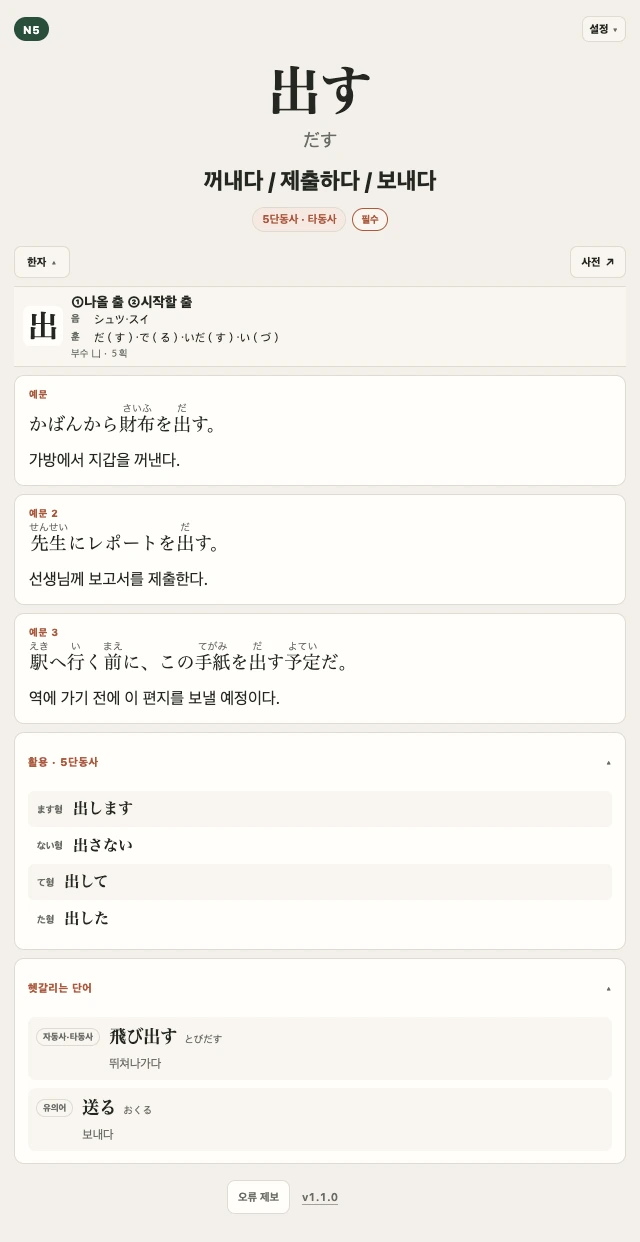
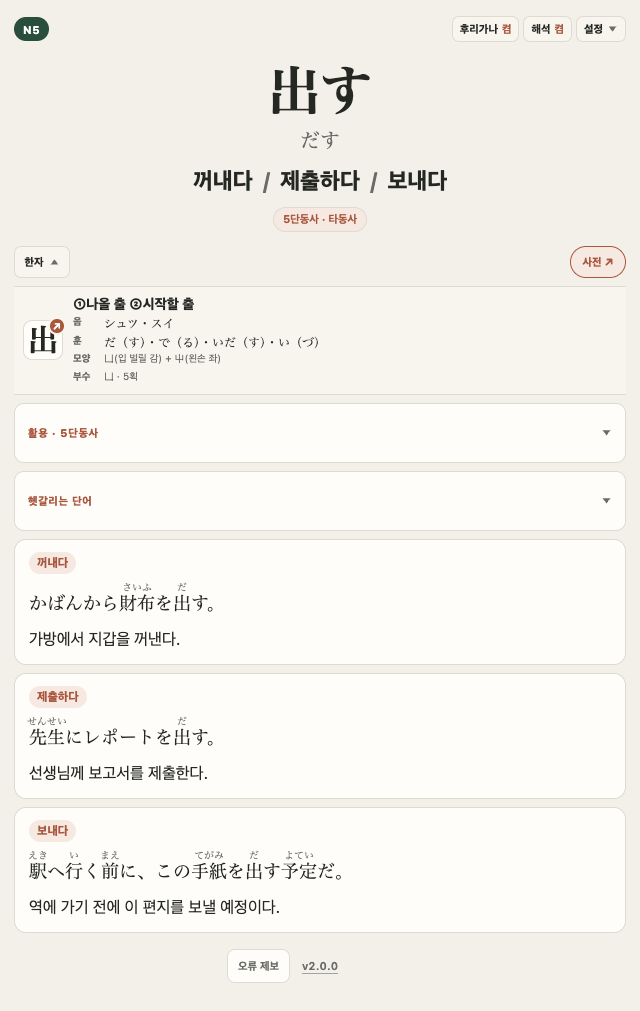
docs: sharpen pinned deck introduction

diff --git a/docs/jlpt-gallery-post.html b/docs/jlpt-gallery-post.html
@@ -6,7 +6,7 @@
   <div style="padding:44px 28px 40px;text-align:center;color:#fff;background:#101512;border-top:9px solid #d8ff62;border-bottom:1px solid #2f3933;">
     <div style="margin-bottom:12px;color:#d8ff62;font-size:13px;font-weight:900;letter-spacing:.12em;">N5–N1 · 한국어권 JLPT ANKI 덱</div>
     <div style="font-size:38px;font-weight:900;line-height:1.12;letter-spacing:-.055em;">JLPT MAX Deck</div>
-    <p style="max-width:590px;margin:18px auto 0;color:#d9dedb;font-size:19px;line-height:1.65;">단어의 뜻만 외우고 끝내지 않도록<br>예문·음성·활용·관련어와 실전 문제까지 연결했음.</p>
+    <p style="max-width:590px;margin:18px auto 0;color:#d9dedb;font-size:19px;line-height:1.65;"><strong style="color:#fff;">외워야 할 뜻만 추리고,</strong><br>각 뜻마다 예문과 음성을 붙인 JLPT Anki 덱임.</p>
     <div style="max-width:390px;margin:25px auto 0;padding:15px 18px;background:#d8ff62;border:1px solid #d8ff62;">
       <a href="https://truthyblue.github.io/jlpt-max-deck/getting-started.html" target="_blank" rel="noopener noreferrer" style="color:#101512;font-weight:900;line-height:1.5;text-decoration:none;">처음 설치부터 따라가기 →</a>
     </div>
@@ -27,47 +27,40 @@
 
   <div style="padding:34px 28px;color:#fff;background:#15201b;border-top:1px solid #344139;border-right:1px solid #344139;border-bottom:1px solid #344139;border-left:8px solid #8ee6b1;">
     <div style="color:#8ee6b1;font-size:12px;font-weight:900;letter-spacing:.1em;">어휘 카드</div>
-    <div style="margin-top:9px;font-size:26px;font-weight:900;line-height:1.3;letter-spacing:-.04em;">외울 뜻이 선명하도록</div>
-    <p style="margin:16px 0 0;color:#d9dedb;">비슷한 한국어 표현은 하나로 정리하고, 구분해서 외워야 하는 다의어는 뜻별로 나눴음. 각 뜻에는 그 의미를 대표하는 검토된 예문을 연결했음.</p>
+    <div style="margin-top:9px;font-size:26px;font-weight:900;line-height:1.3;letter-spacing:-.04em;">카드에 적힌 뜻만 외우면 됨</div>
+    <p style="margin:16px 0 0;color:#d9dedb;">사전 뜻을 통째로 늘어놓지 않고, 한국어 학습자가 실제로 구분해 외워야 할 뜻만 따로 정리했음. 비슷한 표현은 하나로 묶고, 다의어는 외울 뜻별로 나눴음.</p>
     <div style="margin-top:24px;">
       <div style="padding:16px 0;border-top:1px solid #3a4640;border-bottom:1px solid #3a4640;"><span style="margin-right:12px;color:#d8ff62;font-weight:900;">01</span><strong>엄마, 어머니 → 엄마</strong><div style="margin:4px 0 0 40px;color:#aeb8b2;">같은 의미의 표현은 학습용 뜻 하나로 정리</div></div>
       <div style="padding:16px 0;border-bottom:1px solid #3a4640;"><span style="margin-right:12px;color:#d8ff62;font-weight:900;">02</span><strong>꺼내다 / 제출하다 / 편지를 보내다</strong><div style="margin:4px 0 0 40px;color:#aeb8b2;">다의어는 외울 뜻별로 분리</div></div>
       <div style="padding:16px 0;border-bottom:1px solid #3a4640;"><span style="margin-right:12px;color:#d8ff62;font-weight:900;">03</span><strong>뜻 1 → 예문 1 · 뜻 2 → 예문 2</strong><div style="margin:4px 0 0 40px;color:#aeb8b2;">각 뜻에 그 쓰임이 분명한 대표 예문 연결</div></div>
     </div>
+    <p style="margin:20px 0 0;padding:15px 17px;color:#101512;background:#d8ff62;font-weight:800;">단어와 각 뜻별 예문 음성은 모두 AivisSpeech 1.2.0의 <span lang="ja">まい</span>로 합성했음. 단어와 예문을 눌러 각각 들을 수 있음.</p>
   </div>
 
   <div style="margin-top:24px;padding:8px;text-align:center;background:#f3f0e9;border:1px solid #d9ddd8;">
-    <img src="https://truthyblue.github.io/jlpt-max-deck/assets/card-dasu-answer.webp" width="640" height="1242" alt="出す의 읽기와 뜻별 예문, 활용, 관련어, 한자 정보를 보여 주는 실제 JLPT MAX 어휘 카드" style="display:block;width:100%;max-width:500px;height:auto;margin:0 auto;border:0;">
+    <img src="https://truthyblue.github.io/jlpt-max-deck/assets/card-dasu-answer.webp" width="640" height="1011" alt="出す의 세 뜻과 뜻별 예문, 수정된 모양자, nihongokanji 링크가 있는 한자 정보를 보여 주는 실제 JLPT MAX 어휘 카드" style="display:block;width:100%;max-width:500px;height:auto;margin:0 auto;border:0;">
   </div>
-  <div style="margin-top:10px;color:#707873;font-size:13px;text-align:center;">실제 어휘 답면 · 出す</div>
-
-  <div style="padding:46px 8px 8px;">
-    <div style="padding-left:14px;border-left:7px solid #d8ff62;font-size:25px;font-weight:900;letter-spacing:-.04em;">앞뒤로 떠올려야 오래 남음</div>
-    <p style="margin:16px 0 0;">일본어를 보고 읽기와 한국어 뜻을 맞히는 카드뿐 아니라, <strong>한국어 뜻과 예문을 보고 일본어 표기와 읽기를 떠올리는 카드</strong>도 모든 어휘에 한 장씩 넣었음.</p>
-  </div>
-
-  <div style="margin-top:20px;padding:8px;text-align:center;background:#f3f0e9;border:1px solid #d9ddd8;">
-    <img src="https://truthyblue.github.io/jlpt-max-deck/assets/releases/v2.0.0/gallery-v2.0.0-korean-recall.png" width="390" height="844" alt="한국어 뜻과 예문을 보고 일본어를 떠올린 뒤 답을 확인하는 실제 JLPT MAX 카드" style="display:block;width:100%;max-width:390px;height:auto;margin:0 auto;border:0;">
-  </div>
-  <div style="margin-top:10px;color:#707873;font-size:13px;text-align:center;">실제 한국어→일본어 회상 답면</div>
-
-  <div style="margin-top:34px;padding:28px;background:#f3ffd1;border-left:9px solid #9fc90c;">
-    <div style="font-size:23px;font-weight:900;line-height:1.35;">한 카드에서 필요한 만큼만 펼쳐 보기</div>
-    <ul style="margin:15px 0 0;padding-left:22px;color:#4e5852;">
-      <li>단어와 예문 음성·자동재생 범위·0.8~1.5배속</li>
-      <li>후리가나와 한국어 해석 켜기·끄기</li>
-      <li>활용·관련어·말투와 사용 상황·핵심 용법</li>
-      <li>한자 뜻·읽기·부수·획수와 사전 링크</li>
-    </ul>
-  </div>
+  <div style="margin-top:10px;color:#707873;font-size:13px;text-align:center;">실제 어휘 답면 · 出す · 한자 패널 펼침 · AivisSpeech 1.2.0 · まい · ACML 1.0</div>
+  <p style="margin:15px 8px 0;color:#4e5852;">카드의 <strong>한자</strong>를 펼치면 뜻·읽기·모양자·부수·획수를 바로 볼 수 있음. 한자 옆 <strong>↗</strong>를 누르면 nihongokanji의 해당 글자 설명으로 연결됨.</p>
 
   <div style="padding:46px 8px 8px;">
     <div style="padding-left:14px;border-left:7px solid #d8ff62;font-size:25px;font-weight:900;letter-spacing:-.04em;">외운 뒤에는 JLPT 형식 문제로 확인</div>
     <p style="margin:16px 0 22px;">한자 읽기, 표기, 문맥, 바꿔쓰기, 용법, 단어 형성까지 7,876문제를 풀 수 있음. 카드를 뒤집으면 정답·후리가나·번역과 선택지별 해설을 확인할 수 있음.</p>
     <div style="padding:8px;text-align:center;background:#f3f0e9;border:1px solid #d9ddd8;">
-      <img src="https://truthyblue.github.io/jlpt-max-deck/assets/practice-kanji-reading-answer.webp" width="640" height="1242" alt="JLPT 한자 읽기 문제의 정답과 예문, 오답 해설을 보여 주는 실제 JLPT MAX 실전 문제 카드" style="display:block;width:100%;max-width:500px;height:auto;margin:0 auto;border:0;">
+      <img src="https://truthyblue.github.io/jlpt-max-deck/assets/practice-kanji-reading-answer.webp" width="640" height="730" alt="JLPT 한자 읽기 문제의 정답과 예문, 오답 해설을 보여 주는 실제 JLPT MAX 실전 문제 카드" style="display:block;width:100%;max-width:500px;height:auto;margin:0 auto;border:0;">
     </div>
     <div style="margin-top:10px;color:#707873;font-size:13px;text-align:center;">실제 실전 문제 답면 · 한자 읽기</div>
+  </div>
+
+  <div style="margin-top:30px;padding:28px;background:#f3ffd1;border-left:9px solid #9fc90c;">
+    <div style="font-size:23px;font-weight:900;line-height:1.35;">그 밖에 들어 있는 기능</div>
+    <ul style="margin:15px 0 0;padding-left:22px;color:#4e5852;">
+      <li><strong>활용:</strong> 동사·형용사의 주요 활용형을 한눈에 확인</li>
+      <li><strong>헷갈리는 단어:</strong> 비슷한 단어와 차이를 같은 카드에서 비교</li>
+      <li><strong>고저 악센트:</strong> 단어와 예문의 높낮이를 표시하고 설정에서 켜기·끄기</li>
+      <li><strong>표시와 재생 설정:</strong> 후리가나·한국어 해석·자동재생 범위·0.8~1.5배속</li>
+      <li><strong>한국어 → 일본어 학습 카드</strong></li>
+    </ul>
   </div>
 
   <div style="margin-top:30px;padding:30px 28px;background:#101512;color:#fff;border-left:9px solid #8ee6b1;">

diff --git a/site/index.html b/site/index.html
@@ -25,7 +25,7 @@
   <link rel="canonical" href="https://truthyblue.github.io/jlpt-max-deck">
   <title>JLPT MAX Deck — 단어는 더 깊이, 실전 문제까지</title>
   <link rel="icon" href="assets/favicon.svg" type="image/svg+xml">
-  <link rel="stylesheet" href="assets/showcase.css?v=1b9fa06603ef">
+  <link rel="stylesheet" href="assets/showcase.css?v=acde9a6bccd9">
   <script type="application/ld+json">
   {
     "@context": "https://schema.org",
@@ -138,7 +138,7 @@
           <strong><span lang="ja">出す</span> · N5</strong>
         </div>
         <div class="hero-card-window">
-          <img src="assets/card-dasu-answer.webp" width="640" height="1242" decoding="async" fetchpriority="high" data-showcase-state="kanji-expanded" alt="오른쪽 위 설정 메뉴와 出す의 읽기, 한국어 뜻, 예문, 활용, 관련어, 작은 한자 버튼 아래에 펼쳐진 出 한자 정보(나올 출·시작할 출, 부수·5획, 음독·훈독)를 보여주는 실제 JLPT MAX 어휘 카드 샘플">
+          <img src="assets/card-dasu-answer.webp" width="640" height="1011" decoding="async" fetchpriority="high" data-showcase-state="kanji-expanded" alt="오른쪽 위 설정 메뉴와 出す의 세 뜻·뜻별 예문, 펼쳐진 出 한자 정보(뜻·읽기·수정된 모양자·부수·획수와 nihongokanji 링크)를 보여주는 실제 JLPT MAX 어휘 카드 샘플">
         </div>
       </figure>
     </section>
@@ -198,7 +198,7 @@
               <b aria-hidden="true">↓</b>
             </div>
             <div class="interactive-card-image">
-              <img src="assets/card-dasu-answer.webp" width="640" height="1242" loading="lazy" decoding="async" data-showcase-state="kanji-expanded" alt="오른쪽 위 설정 메뉴와 出す의 한국어 뜻, 예문, 활용, 관련어, 작은 한자 버튼 아래에 펼쳐진 出 한자 정보(나올 출·시작할 출, 부수·5획, 음독·훈독)를 보여주는 실제 어휘 답안 카드 샘플">
+              <img src="assets/card-dasu-answer.webp" width="640" height="1011" loading="lazy" decoding="async" data-showcase-state="kanji-expanded" alt="오른쪽 위 설정 메뉴와 出す의 세 뜻·뜻별 예문, 펼쳐진 出 한자 정보(뜻·읽기·수정된 모양자·부수·획수와 nihongokanji 링크)를 보여주는 실제 어휘 답안 카드 샘플">
               <span class="card-feature-callout autoplay-feature-callout">
                 <span class="card-feature-label"><strong>카드 설정</strong></span>
               </span>

diff --git a/site/assets/showcase.css b/site/assets/showcase.css
@@ -859,30 +859,30 @@ main:focus {
 }
 
 .word-audio-hotspot {
-  /* card-dasu-answer.webp: center the target on 出す and its reading only. */
-  top: 4.589372%;
+  /* card-dasu-answer.webp: current 出す word and reading block. */
+  top: 5.934718%;
   left: 37.5%;
   width: 25%;
-  height: 8.21256%;
+  height: 9.333272%;
 }
 
 .example-audio-hotspot {
   left: 2.1875%;
   width: 95.625%;
-  /* card-dasu-answer.webp: 640×1242, each example box is about 112px tall. */
-  height: 9.017713%;
+  /* card-dasu-answer.webp: 640×1011, each meaning/example box is about 126px tall. */
+  height: 12.46736%;
 }
 
 .example-1-audio-hotspot {
-  top: 30.193237%;
+  top: 53.294016%;
 }
 
 .example-2-audio-hotspot {
-  top: 39.774557%;
+  top: 66.554956%;
 }
 
 .example-3-audio-hotspot {
-  top: 49.436393%;
+  top: 79.815896%;
 }
 
 .hotspot-badge {
@@ -980,11 +980,11 @@ main:focus {
 }
 
 .autoplay-feature-callout {
-  /* card-dasu-answer.webp: exact 43×26px settings button at (583, 16). */
-  top: 1.288245%;
-  left: 91.09375%;
-  width: 6.71875%;
-  height: 2.093398%;
+  /* card-dasu-answer.webp: exact 50×26px settings button at (576, 16). */
+  top: 1.582591%;
+  left: 89.995117%;
+  width: 7.817383%;
+  height: 2.571711%;
   border: 2px solid var(--lime);
   border-radius: 9px;
   box-shadow: 0 0 0 5px rgba(216, 255, 98, .15);
@@ -1008,18 +1008,18 @@ main:focus {
 }
 
 .conjugation-feature-callout {
-  top: 58.937198%;
-  height: 17.552335%;
+  top: 39.842977%;
+  height: 5.934718%;
 }
 
 .related-feature-callout {
-  top: 77.294686%;
-  height: 16.425121%;
+  top: 46.568744%;
+  height: 5.934718%;
 }
 
 .kanji-feature-callout {
-  top: 22.544283%;
-  height: 7.326892%;
+  top: 28.244001%;
+  height: 10.807678%;
 }
 
 .kanji-feature-callout .card-feature-label {

diff --git a/test/test_public_site.py b/test/test_public_site.py
@@ -283,10 +283,10 @@ class PublicSiteTests(unittest.TestCase):
         if word_rule is None:
             self.fail("missing word hotspot rule")
         for declaration in (
-            "top: 4.589372%;",
+            "top: 5.934718%;",
             "left: 37.5%;",
             "width: 25%;",
-            "height: 8.21256%;",
+            "height: 9.333272%;",
         ):
             self.assertIn(declaration, word_rule.group(1))
 
@@ -296,17 +296,17 @@ class PublicSiteTests(unittest.TestCase):
         if settings_rule is None:
             self.fail("missing settings callout rule")
         for declaration in (
-            "top: 1.288245%;",
-            "left: 91.09375%;",
-            "width: 6.71875%;",
-            "height: 2.093398%;",
+            "top: 1.582591%;",
+            "left: 89.995117%;",
+            "width: 7.817383%;",
+            "height: 2.571711%;",
         ):
             self.assertIn(declaration, settings_rule.group(1))
 
         expected_tops = {
-            "example-1-audio-hotspot": "30.193237%",
-            "example-2-audio-hotspot": "39.774557%",
-            "example-3-audio-hotspot": "49.436393%",
+            "example-1-audio-hotspot": "53.294016%",
+            "example-2-audio-hotspot": "66.554956%",
+            "example-3-audio-hotspot": "79.815896%",
         }
         for selector, expected_top in expected_tops.items():
             rule = re.search(rf"\.{selector}\s*\{{([^}}]+)\}}", css)
@@ -318,7 +318,7 @@ class PublicSiteTests(unittest.TestCase):
         shared_rule = re.search(r"\.example-audio-hotspot\s*\{([^}]+)\}", css)
         if shared_rule is None:
             self.fail("missing shared example hotspot rule")
-        self.assertIn("height: 9.017713%;", shared_rule.group(1))
+        self.assertIn("height: 12.46736%;", shared_rule.group(1))
 
     def test_home_explains_direct_core_and_optional_kanji(self) -> None:
         html = (SITE / "index.html").read_text(encoding="utf-8")
